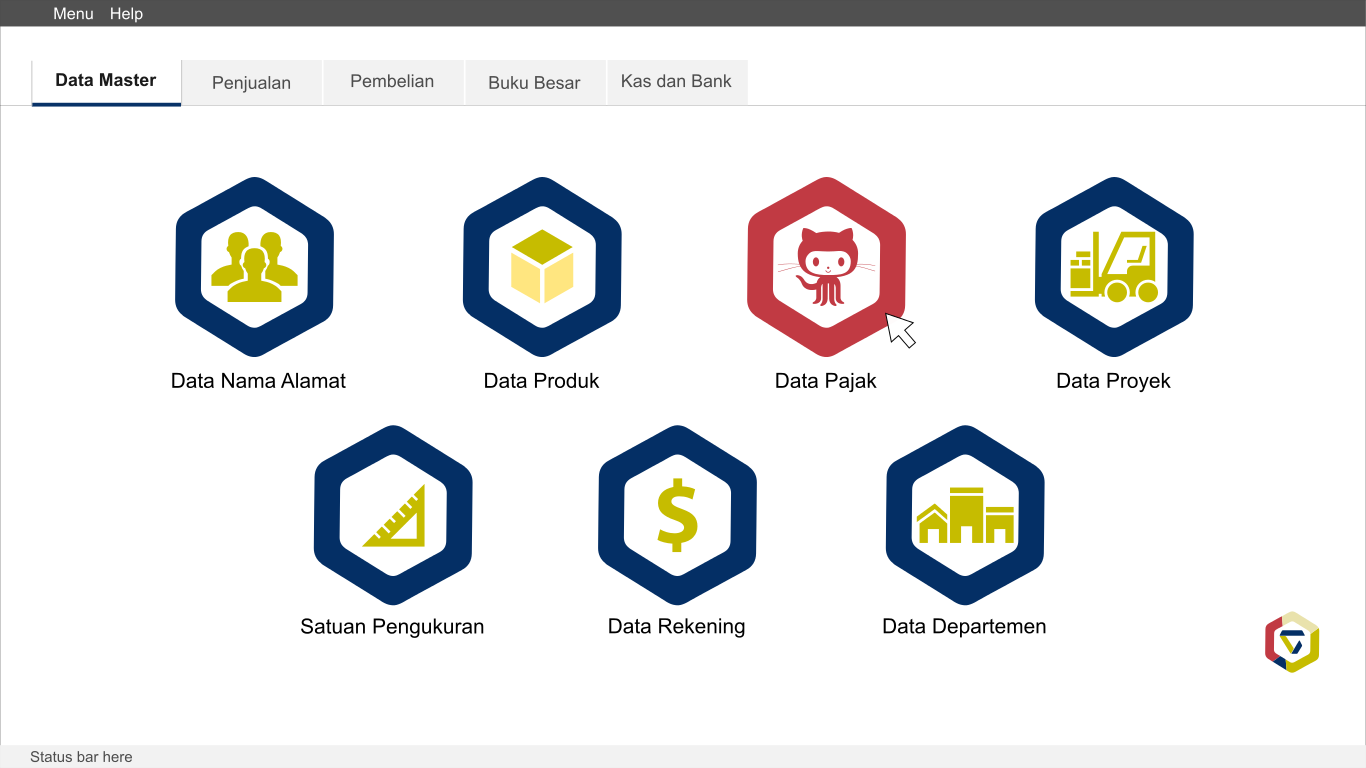
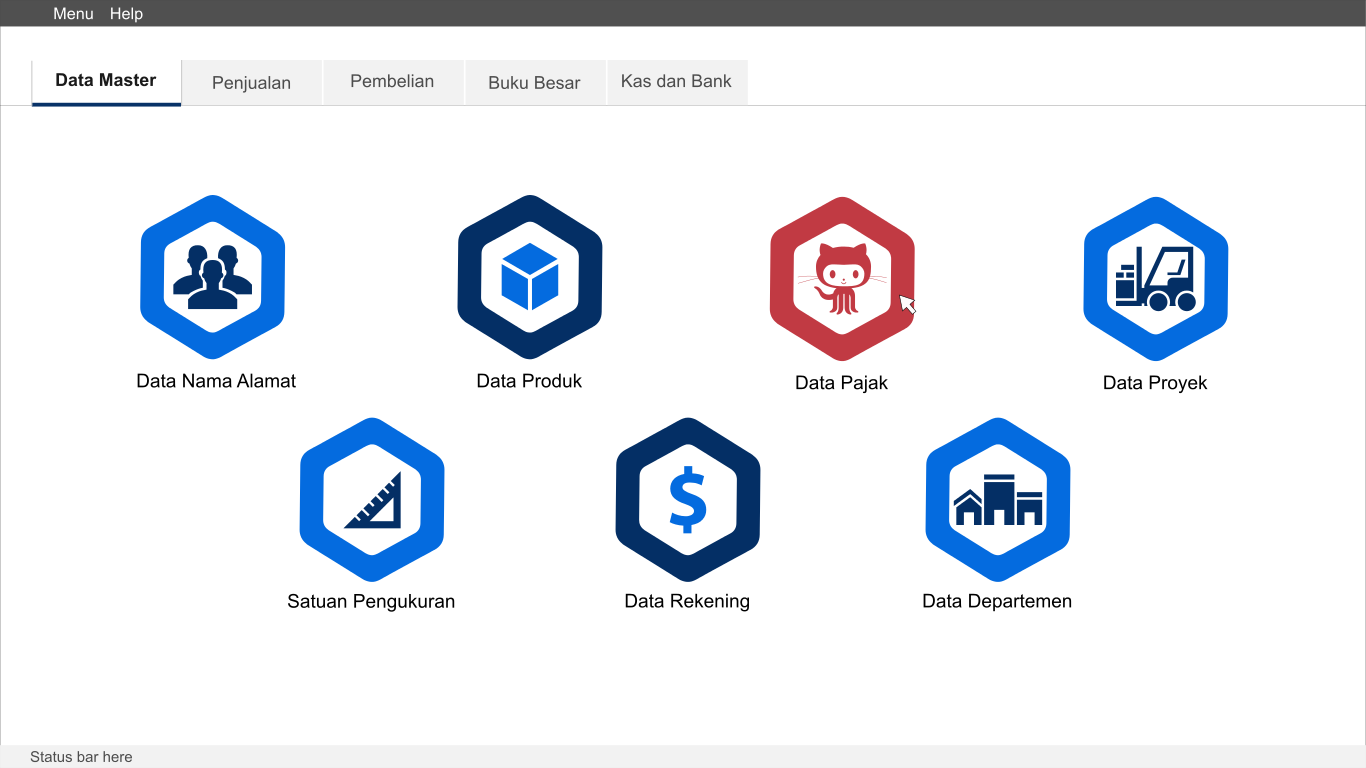
fix hutang pembelian dan edit gambar

diff --git a/source/pembelian/PembelianC.py b/source/pembelian/PembelianC.py
@@ -315,17 +315,19 @@ class Pembelian(object):
 		query = "SELECT * FROM `gd_pembelian_barang` GROUP BY `kodeVendor`"
 		data = self.DatabaseRunQuery(query)
 		querytotal = "SELECT  SUM(`totalHarga`) FROM `gd_pembelian_barang` GROUP BY `kodeVendor`"
-		result = self.DatabaseRunQuery(query)
+		result = self.DatabaseRunQuery(querytotal)
 		for a in range (0,len(result)):
-			kodePelanggan = str(data[a][0])
+			kodePelanggan = str(data[a][4])
+			print data
+			print kodePelanggan
 			query = "SELECT * FROM `gd_nama_alamat` WHERE `kodePelanggan` LIKE '"+kodePelanggan+"'"
 			nama = str(self.DatabaseRunQuery(query)[0][2])
-			totalHutang = str(int(result[a][1]))
+			totalHutang = str(int(result[a][0]))
 			self.tbl_Pembelian_HutangUsaha.insertRow(a)
 			self.tbl_Pembelian_HutangUsaha.setItem(a,0,QtGui.QTableWidgetItem(kodePelanggan)) #nama
 			self.tbl_Pembelian_HutangUsaha.setItem(a,4,QtGui.QTableWidgetItem(totalHutang)) #hutang saldo	
-		query = "SELECT SUM(`hargaTotal`) FROM `gd_hutang`"
-		self.lb_Pembelian_HutangUsaha_TotalNilai.setText("Rp "+str(int(self.DatabaseRunQuery(query)[0][0])))
+		#query = "SELECT SUM(`jumlahTagihan`) FROM `gd_hutang`"
+		#self.lb_Pembelian_HutangUsaha_TotalNilai.setText("Rp "+str(int(self.DatabaseRunQuery(query)[0][0])))
 		return
 	
 	def Pembelian_GoTo_HutangUsaha_Rincian(self):
@@ -355,4 +357,4 @@ class Pembelian(object):
 	def Pembelian_GoTo_ReturPembelian(self):
 		self.st_Pembelian.setCurrentIndex(self.INDEX_ST_PEMBELIAN_RETURPEMBELIAN)
 		return
-		
+	

diff --git a/doc/readme.md b/doc/readme.md
@@ -1,0 +1,29 @@
+# Windows Icons
+
+This [Modern UI Icons](http://modernuiicons.com/) project was started back in October 2011 with the goal of allowing developers a single solution for icons. Licensed under Creative Commons 3.0 the pack has grown very rapidly with hundreds of suggestions through Twitter.
+
+Thank you all so much for all the support and suggestions. If you found these useful feel free to [donate](https://www.paypal.com/cgi-bin/webscr?cmd=_donations&business=JAJEKK28BB6EQ&lc=US&item_name=Templarian&item_number=git%2dwindows%2dicons&currency_code=USD&bn=PP%2dDonationsBF%3abtn_donate_SM%2egif%3aNonHosted) me a beer.
+
+[![Donate](https://www.paypalobjects.com/en_US/i/btn/btn_donate_SM.gif)](https://www.paypal.com/cgi-bin/webscr?cmd=_donations&business=JAJEKK28BB6EQ&lc=US&item_name=Templarian&item_number=git%2dwindows%2dicons&currency_code=USD&bn=PP%2dDonationsBF%3abtn_donate_SM%2egif%3aNonHosted)
+
+## Windows Phone [![preview](http://img33.imageshack.us/img33/5805/maghh.png)](http://modernuiicons.com/)
+
+Currently there are hundreds of 76x76 icons provided in this pack. Both XAML and SVG vector files are provided and I encourage you to use them instead of static PNG files wherever possible. Be sure to only use the white (aka dark) icons for the appbar.
+
+## WindowsRT
+
+This section is still a work in progress. The idea being to provide larger vector assets outside of the normal circle that the application bar is limited by.
+
+## Expression Design
+
+All of these icons were created in Expression Design.
+
+[Expression Design 4](http://www.microsoft.com/en-us/download/details.aspx?id=36180)
+
+## Tutorials
+
+[Creating an Icon](http://modernuiicons.com/tutorial)
+
+## Contact
+
+Please send icon requests to Austin Andrews ([@templarian](http://twitter.com/templarian)) on Twitter or create a new issue.
